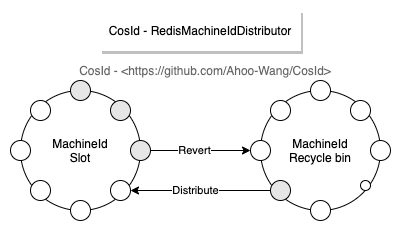
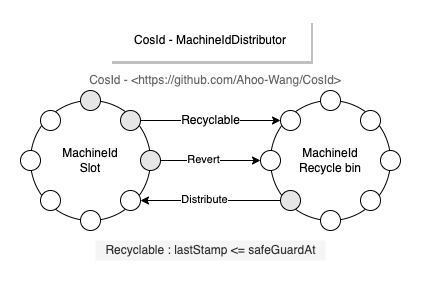
update doc

diff --git a/README.md b/README.md
@@ -104,7 +104,9 @@ cosid:
 <p align="center">
      <img src="./document/docs/.vuepress/public/assets/design/RedisMachineIdDistributor.png" alt="Redis Machine Id Distributor"/>
 </p>
-
+<p align="center">
+     <img src="./document/docs/.vuepress/public/assets/design/Machine-Id-Safe-Guard.png" alt="Machine Id Safe Guard"/>
+</p>
 ```yaml
 cosid:
   snowflake:

diff --git a/document/docs/guide/cosid-redis.md b/document/docs/guide/cosid-redis.md
@@ -23,3 +23,7 @@
 <p align="center" >
   <img :src="$withBase('/assets/design/RedisMachineIdDistributor.png')" alt="SegmentId"/>
 </p>
+
+<p align="center">
+  <img :src="$withBase('/assets/design/Machine-Id-Safe-Guard.png')" alt="Machine Id Safe Guard"/>
+</p>
